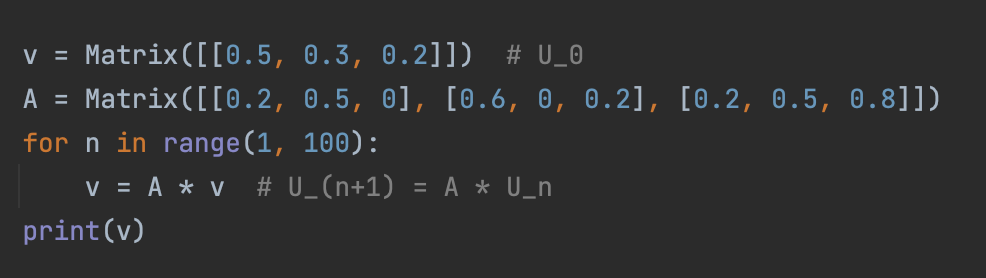
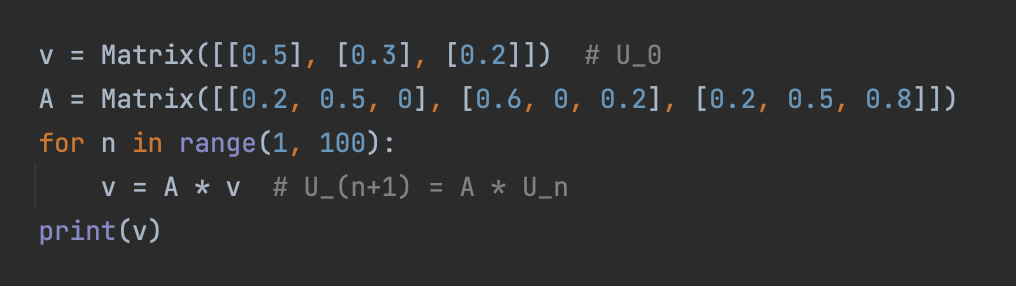
mini änderungen

diff --git a/website/Console_fr.html b/website/Console_fr.html
@@ -253,10 +253,11 @@
          <p>
             Voici un autre exemple de fonction avec des matrices. Si un problème probalistique est représenté par des nombres discrets de
             temps n et des vecteurs u_n avec u_(n+1)=A*u_n, on peut chercher la valeur u_100.
-            A la main, cela serait impossible, mais a l'aide d'petit script, cela ne prendrait que quelques lignes :
+            A la main, cela serait impossible, mais a l'aide d'un petit script, cela ne prendrait que quelques lignes :
          </p>
 
          <img src="matrix.png" style="margin-left:350px;width:50%;height:auto;" alt=""/>
+
          <br />
          <br />
       </div>

diff --git a/website/website.css b/website/website.css
@@ -40,10 +40,10 @@
 }
 
 #logo {
-	position: absolute;
-	left: 310px;
-	top: 0px;
-	width: 550px;
+    display:block;
+    margin: 0px auto;
+    width:500px;
+    height:auto;
 }
 
 #ana3 {

diff --git a/main/matrix.py b/main/matrix.py
@@ -783,7 +783,7 @@ if __name__ == "__main__":
     #            docstring += method.__doc__ + "\n\n"
     # print(docstring)
 
-    v = Matrix([[0.5, 0.3, 0.2]])  # U_0
+    v = Matrix([[0.5], [0.3], [0.2]])  # U_0
     A = Matrix([[0.2, 0.5, 0], [0.6, 0, 0.2], [0.2, 0.5, 0.8]])
     for n in range(1, 100):
         v = A * v  # U_(n+1) = A * U_n
